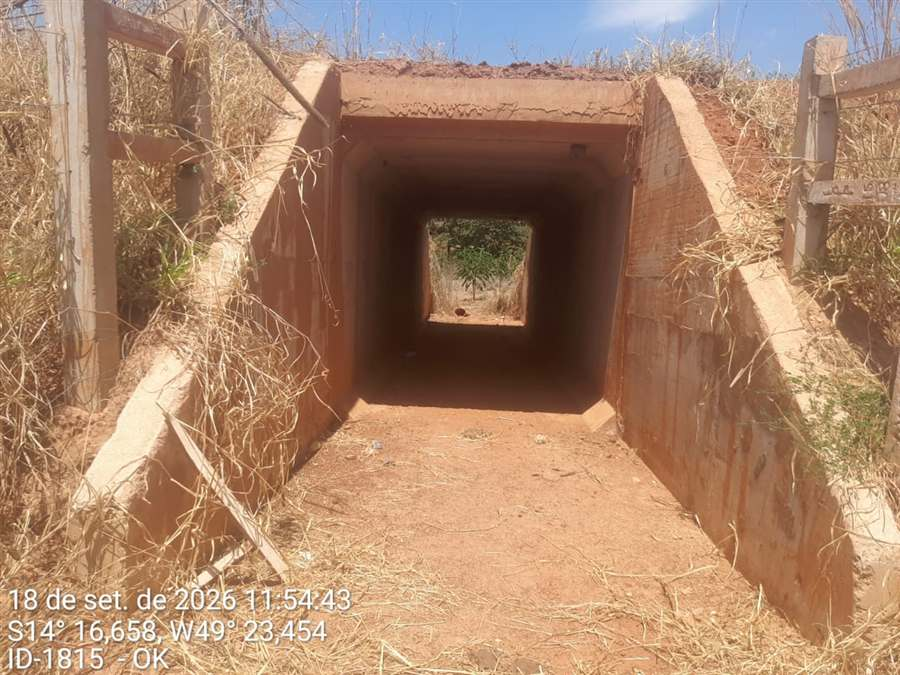
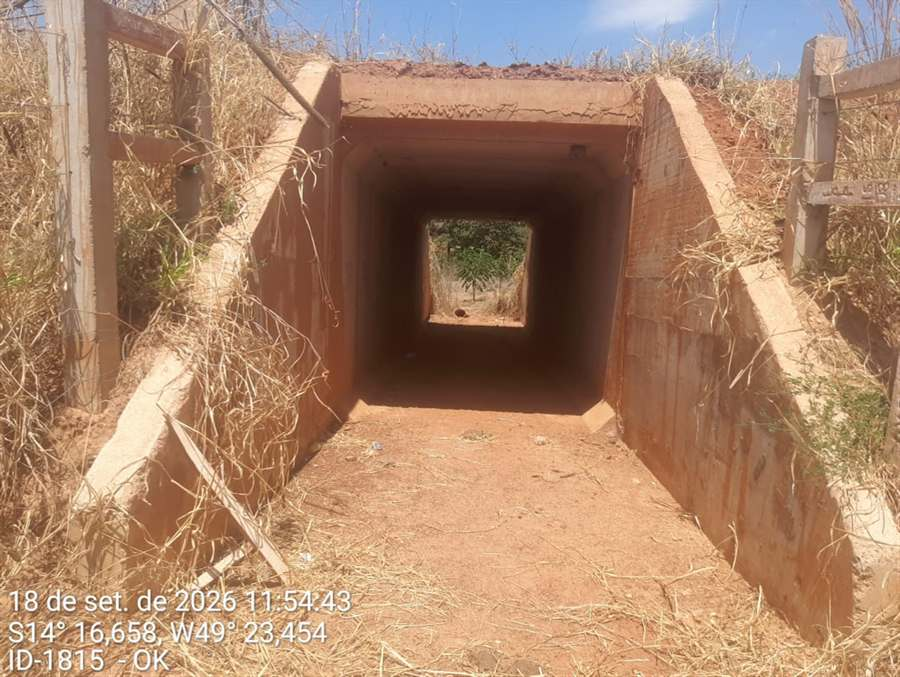
Atualiza evidencias fotograficas do CLP-007 (IDs 145, 1818, 1825 e 1828)

diff --git a/index.html b/index.html
@@ -4123,7 +4123,7 @@ Object.assign(CLP_LOGO_EMPRESA, CLP_BATCH2_LOGOS);
 ];
 const CLP_BATCH3_EVIDENCIAS={
 'CLP-024':{"2578":{"antes":"clp024_2578_antes.jpg"},"2579":{"antes":"clp024_2579_antes.jpg"},"2580":{"antes":"clp024_2580_antes.jpg"},"2581":{"antes":"clp024_2581_antes.jpg"},"2582":{"antes":"clp024_2582_antes.jpg"},"2583":{"antes":"clp024_2583_antes.jpg"},"2731":{"antes":"clp024_2731_antes.jpg"},"2732":{"antes":"clp024_2732_antes.jpg"},"2585":{"antes":"clp024_2585_antes.jpg"},"2586":{"antes":"clp024_2586_antes.jpg"},"2587":{"antes":"clp024_2587_antes.jpg"},"2588":{"antes":"clp024_2588_antes.jpg"},"2589":{"antes":"clp024_2589_antes.jpg"},"2590":{"antes":"clp024_2590_antes.jpg"},"2733":{"antes":"clp024_2733_antes.jpg"},"2591":{"antes":"clp024_2591_antes.jpg"},"2592":{"antes":"clp024_2592_antes.jpg"},"2593":{"antes":"clp024_2593_antes.jpg"},"2594":{"antes":"clp024_2594_antes.jpg"},"2595":{"antes":"clp024_2595_antes.jpg"},"2596":{"antes":"clp024_2596_antes.jpg"},"2597":{"antes":"clp024_2597_antes.jpg"},"2598":{"antes":"clp024_2598_antes.jpg"},"2599":{"antes":"clp024_2599_antes.jpg"},"2600":{"antes":"clp024_2600_antes.jpg"},"2601":{"antes":"clp024_2601_antes.jpg"},"2602":{"antes":"clp024_2602_antes.jpg"},"2603":{"antes":"clp024_2603_antes.jpg"},"2604":{"antes":"clp024_2604_antes.jpg"},"2605":{"antes":"clp024_2605_antes.jpg"},"2606":{"antes":"clp024_2606_antes.jpg"},"2607":{"antes":"clp024_2607_antes.jpg"},"2608":{"antes":"clp024_2608_antes.jpg"},"2609":{"antes":"clp024_2609_antes.jpg"},"2610":{"antes":"clp024_2610_antes.jpg"},"2611":{"antes":"clp024_2611_antes.jpg"},"2612":{"antes":"clp024_2612_antes.jpg"},"2613":{"antes":"clp024_2613_antes.jpg"},"2614":{"antes":"clp024_2614_antes.jpg","depois1":"clp024_2614_depois1.jpg"},"2615":{"antes":"clp024_2615_antes.jpg"},"2616":{"antes":"clp024_2616_antes.jpg"},"2617":{"antes":"clp024_2617_antes.jpg"},"2618":{"antes":"clp024_2618_antes.jpg","depois1":"clp024_2618_depois1.jpg","depois2":"clp024_2618_depois2.jpg"},"2619":{"antes":"clp024_2619_antes.jpg"},"2620":{"antes":"clp024_2620_antes.jpg","depois1":"clp024_2620_depois1.jpg"},"2621":{"antes":"clp024_2621_antes.jpg"},"2622":{"antes":"clp024_2622_antes.jpg","depois1":"clp024_2622_depois1.jpg"},"2623":{"antes":"clp024_2623_antes.jpg"},"2624":{"antes":"clp024_2624_antes.jpg","depois1":"clp024_2624_depois1.jpg","depois2":"clp024_2624_depois2.jpg"},"2625":{"antes":"clp024_2625_antes.jpg","depois1":"clp024_2625_depois1.jpg","depois2":"clp024_2625_depois2.jpg"},"2626":{"antes":"clp024_2626_antes.jpg"},"2627":{"antes":"clp024_2627_antes.jpg"},"2628":{"antes":"clp024_2628_antes.jpg"},"2629":{"antes":"clp024_2629_antes.jpg"},"2630":{"antes":"clp024_2630_antes.jpg"},"2639":{"antes":"clp024_2639_antes.jpg"},"2640":{"antes":"clp024_2640_antes.jpg"},"2641":{"antes":"clp024_2641_antes.jpg"},"2642":{"antes":"clp024_2642_antes.jpg"},"2643":{"antes":"clp024_2643_antes.jpg"},"2734":{"antes":"clp024_2734_antes.jpg"},"2735":{"antes":"clp024_2735_antes.jpg"},"2736":{"antes":"clp024_2736_antes.jpg"},"2737":{"antes":"clp024_2737_antes.jpg"},"2738":{"antes":"clp024_2738_antes.jpg"},"2739":{"antes":"clp024_2739_antes.jpg"},"2740":{"antes":"clp024_2740_antes.jpg"},"2741":{"antes":"clp024_2741_antes.jpg"},"2742":{"antes":"clp024_2742_antes.jpg"},"2743":{"antes":"clp024_2743_antes.jpg"},"2744":{"antes":"clp024_2744_antes.jpg"},"2745":{"antes":"clp024_2745_antes.jpg"},"2746":{"antes":"clp024_2746_antes.jpg"},"2747":{"antes":"clp024_2747_antes.jpg"},"2748":{"antes":"clp024_2748_antes.jpg"},"2749":{"antes":"clp024_2749_antes.jpg"},"2750":{"antes":"clp024_2750_antes.jpg"},"2751":{"antes":"clp024_2751_antes.jpg"},"2752":{"antes":"clp024_2752_antes.jpg"},"2648":{"antes":"clp024_2648_antes.jpg"},"2649":{"antes":"clp024_2649_antes.jpg"},"2650":{"antes":"clp024_2650_antes.jpg"},"2651":{"antes":"clp024_2651_antes.jpg"},"2652":{"antes":"clp024_2652_antes.jpg"},"2653":{"antes":"clp024_2653_antes.jpg"},"2654":{"antes":"clp024_2654_antes.jpg"},"2655":{"antes":"clp024_2655_antes.jpg"},"2656":{"antes":"clp024_2656_antes.jpg"},"2657":{"antes":"clp024_2657_antes.jpg"},"2658":{"antes":"clp024_2658_antes.jpg"},"2659":{"antes":"clp024_2659_antes.jpg"},"2660":{"antes":"clp024_2660_antes.jpg"},"2661":{"antes":"clp024_2661_antes.jpg"},"2662":{"antes":"clp024_2662_antes.jpg"},"2663":{"antes":"clp024_2663_antes.jpg"},"2664":{"antes":"clp024_2664_antes.jpg"},"2665":{"antes":"clp024_2665_antes.jpg"},"2666":{"antes":"clp024_2666_antes.jpg"},"2667":{"antes":"clp024_2667_antes.jpg"},"2668":{"antes":"clp024_2668_antes.jpg"},"2669":{"antes":"clp024_2669_antes.jpg"},"2670":{"antes":"clp024_2670_antes.jpg"},"2671":{"antes":"clp024_2671_antes.jpg","depois1":"clp024_2671_depois1.jpg"},"2672":{"antes":"clp024_2672_antes.jpg","depois1":"clp024_2672_depois1.jpg"},"2673":{"antes":"clp024_2673_antes.jpg","depois1":"clp024_2673_depois1.jpg"},"2674":{"antes":"clp024_2674_antes.jpg"},"2675":{"antes":"clp024_2675_antes.jpg"},"2676":{"antes":"clp024_2676_antes.jpg"},"2677":{"antes":"clp024_2677_antes.jpg"},"2678":{"antes":"clp024_2678_antes.jpg"},"2679":{"antes":"clp024_2679_antes.jpg"},"2680":{"antes":"clp024_2680_antes.jpg"},"2681":{"antes":"clp024_2681_antes.jpg"},"2682":{"antes":"clp024_2682_antes.jpg"},"2683":{"antes":"clp024_2683_antes.jpg"},"2684":{"antes":"clp024_2684_antes.jpg"},"2685":{"antes":"clp024_2685_antes.jpg"},"2686":{"antes":"clp024_2686_antes.jpg"},"2687":{"antes":"clp024_2687_antes.jpg"},"2688":{"antes":"clp024_2688_antes.jpg"},"2689":{"antes":"clp024_2689_antes.jpg"},"2690":{"antes":"clp024_2690_antes.jpg"},"2691":{"antes":"clp024_2691_antes.jpg"},"2692":{"antes":"clp024_2692_antes.jpg"},"2693":{"antes":"clp024_2693_antes.jpg"},"2694":{"antes":"clp024_2694_antes.jpg"},"2695":{"antes":"clp024_2695_antes.jpg"},"2696":{"antes":"clp024_2696_antes.jpg"},"2697":{"antes":"clp024_2697_antes.jpg"},"2698":{"antes":"clp024_2698_antes.jpg"},"2699":{"antes":"clp024_2699_antes.jpg"},"2700":{"antes":"clp024_2700_antes.jpg"},"2701":{"antes":"clp024_2701_antes.jpg"},"2702":{"antes":"clp024_2702_antes.jpg"},"2703":{"antes":"clp024_2703_antes.jpg"},"2704":{"antes":"clp024_2704_antes.jpg"},"2705":{"antes":"clp024_2705_antes.jpg"},"2706":{"antes":"clp024_2706_antes.jpg"},"2707":{"antes":"clp024_2707_antes.jpg"},"2708":{"antes":"clp024_2708_antes.jpg"},"2709":{"antes":"clp024_2709_antes.jpg"},"2710":{"antes":"clp024_2710_antes.jpg"},"2711":{"antes":"clp024_2711_antes.jpg"},"2712":{"antes":"clp024_2712_antes.jpg"},"2713":{"antes":"clp024_2713_antes.jpg"},"2714":{"antes":"clp024_2714_antes.jpg"},"2715":{"antes":"clp024_2715_antes.jpg"},"2716":{"antes":"clp024_2716_antes.jpg"},"2717":{"antes":"clp024_2717_antes.jpg"},"2718":{"antes":"clp024_2718_antes.jpg"},"2719":{"antes":"clp024_2719_antes.jpg"},"2720":{"antes":"clp024_2720_antes.jpg"},"2721":{"antes":"clp024_2721_antes.jpg"},"2722":{"antes":"clp024_2722_antes.jpg"},"2723":{"antes":"clp024_2723_antes.jpg"},"2724":{"antes":"clp024_2724_antes.jpg"},"2725":{"antes":"clp024_2725_antes.jpg"},"2726":{"antes":"clp024_2726_antes.jpg"},"2727":{"antes":"clp024_2727_antes.jpg"},"2728":{"antes":"clp024_2728_antes.jpg","depois1":"clp024_2728_depois1.jpg"},"2729":{"antes":"clp024_2729_antes.jpg"}},'CLP-016':{"1022":{"antes":"clp016_1022_antes.jpg"},"1023":{"antes":"clp016_1023_antes.jpg"},"1024":{"antes":"clp016_1024_antes.jpg","depois1":"clp016_1024_depois1.jpg"},"1026":{"antes":"clp016_1026_antes.jpg"},"1027":{"antes":"clp016_1027_antes.jpg","depois1":"clp016_1027_depois1.jpg"},"1028":{"antes":"clp016_1028_antes.jpg"},"1029":{"antes":"clp016_1029_antes.jpg"},"1030":{"antes":"clp016_1030_antes.jpg"},"1031":{"antes":"clp016_1031_antes.jpg"},"1033":{"antes":"clp016_1033_antes.jpg"},"1040":{"antes":"clp016_1040_antes.jpg","depois1":"clp016_1040_depois1.jpg"},"1041":{"antes":"clp016_1041_antes.jpg"},"1042":{"antes":"clp016_1042_antes.jpg"},"1043":{"antes":"clp016_1043_antes.jpg"},"1929":{"antes":"clp016_1929_antes.jpg","depois1":"clp016_1929_depois1.jpg"},"1930":{"antes":"clp016_1930_antes.jpg"},"1044":{"antes":"clp016_1044_antes.jpg"},"1045":{"antes":"clp016_1045_antes.jpg"},"1046":{"antes":"clp016_1046_antes.jpg","depois1":"clp016_1046_depois1.jpg"},"1047":{"antes":"clp016_1047_antes.jpg"},"1048":{"antes":"clp016_1048_antes.jpg","depois1":"clp016_1048_depois1.jpg"},"1050":{"antes":"clp016_1050_antes.jpg","depois1":"clp016_1050_depois1.jpg"},"1051":{"antes":"clp016_1051_antes.jpg","depois1":"clp016_1051_depois1.jpg"},"1052":{"antes":"clp016_1052_antes.jpg"},"1053":{"antes":"clp016_1053_antes.jpg"},"1054":{"antes":"clp016_1054_antes.jpg","depois1":"clp016_1054_depois1.jpg"},"1055":{"antes":"clp016_1055_antes.jpg","depois1":"clp016_1055_depois1.jpg"},"1056":{"antes":"clp016_1056_antes.jpg","depois1":"clp016_1056_depois1.jpg"},"1057":{"antes":"clp016_1057_antes.jpg"},"1058":{"antes":"clp016_1058_antes.jpg"},"1059":{"antes":"clp016_1059_antes.jpg"},"1060":{"antes":"clp016_1060_antes.jpg"},"1061":{"antes":"clp016_1061_antes.jpg"},"1062":{"antes":"clp016_1062_antes.jpg"},"1063":{"antes":"clp016_1063_antes.jpg"},"1064":{"antes":"clp016_1064_antes.jpg"},"1065":{"antes":"clp016_1065_antes.jpg"},"1066":{"antes":"clp016_1066_antes.jpg"},"1067":{"antes":"clp016_1067_antes.jpg"},"1068":{"antes":"clp016_1068_antes.jpg","depois1":"clp016_1068_depois1.jpg"},"1069":{"antes":"clp016_1069_antes.jpg","depois1":"clp016_1069_depois1.jpg"},"1070":{"antes":"clp016_1070_antes.jpg"},"1071":{"antes":"clp016_1071_antes.jpg"},"1072":{"antes":"clp016_1072_antes.jpg"},"1073":{"antes":"clp016_1073_antes.jpg","depois1":"clp016_1073_depois1.jpg"},"1074":{"antes":"clp016_1074_antes.jpg"},"1075":{"antes":"clp016_1075_antes.jpg"},"1076":{"antes":"clp016_1076_antes.jpg"},"1077":{"antes":"clp016_1077_antes.jpg"},"1080":{"depois1":"clp016_1080_depois1.jpg"},"1086":{"antes":"clp016_1086_antes.jpg","depois1":"clp016_1086_depois1.jpg"},"1087":{"antes":"clp016_1087_antes.jpg"},"1088":{"antes":"clp016_1088_antes.jpg","depois1":"clp016_1088_depois1.jpg","depois2":"clp016_1088_depois2.jpg"},"1089":{"antes":"clp016_1089_antes.jpg","depois1":"clp016_1089_depois1.jpg"},"1090":{"antes":"clp016_1090_antes.jpg","depois1":"clp016_1090_depois1.jpg"},"1091":{"antes":"clp016_1091_antes.jpg","depois1":"clp016_1091_depois1.jpg","depois2":"clp016_1091_depois2.jpg"},"1092":{"antes":"clp016_1092_antes.jpg"},"1093":{"antes":"clp016_1093_antes.jpg","depois1":"clp016_1093_depois1.jpg"},"1094":{"antes":"clp016_1094_antes.jpg"},"1095":{"antes":"clp016_1095_antes.jpg"},"1096":{"antes":"clp016_1096_antes.jpg","depois1":"clp016_1096_depois1.jpg"},"1097":{"antes":"clp016_1097_antes.jpg"},"1098":{"antes":"clp016_1098_antes.jpg","depois1":"clp016_1098_depois1.jpg"},"1099":{"antes":"clp016_1099_antes.jpg","depois1":"clp016_1099_depois1.jpg","depois2":"clp016_1099_depois2.jpg"},"1100":{"antes":"clp016_1100_antes.jpg","depois1":"clp016_1100_depois1.jpg"},"1101":{"antes":"clp016_1101_antes.jpg","depois1":"clp016_1101_depois1.jpg"},"1102":{"antes":"clp016_1102_antes.jpg"},"1103":{"antes":"clp016_1103_antes.jpg"},"1104":{"antes":"clp016_1104_antes.jpg"},"1105":{"antes":"clp016_1105_antes.jpg","depois1":"clp016_1105_depois1.jpg"},"1106":{"antes":"clp016_1106_antes.jpg","depois1":"clp016_1106_depois1.jpg"},"1109":{"antes":"clp016_1109_antes.jpg","depois1":"clp016_1109_depois1.jpg"},"1110":{"antes":"clp016_1110_antes.jpg"},"1111":{"antes":"clp016_1111_antes.jpg","depois1":"clp016_1111_depois1.jpg"},"1112":{"antes":"clp016_1112_antes.jpg","depois1":"clp016_1112_depois1.jpg"},"1113":{"antes":"clp016_1113_antes.jpg","depois1":"clp016_1113_depois1.jpg"},"1114":{"antes":"clp016_1114_antes.jpg","depois1":"clp016_1114_depois1.jpg"},"1115":{"antes":"clp016_1115_antes.jpg","depois1":"clp016_1115_depois1.jpg"},"1116":{"antes":"clp016_1116_antes.jpg","depois1":"clp016_1116_depois1.jpg"},"1117":{"antes":"clp016_1117_antes.jpg","depois1":"clp016_1117_depois1.jpg"},"1118":{"antes":"clp016_1118_antes.jpg","depois1":"clp016_1118_depois1.jpg"},"1119":{"antes":"clp016_1119_antes.jpg"},"1120":{"antes":"clp016_1120_antes.jpg","depois1":"clp016_1120_depois1.jpg"},"1121":{"antes":"clp016_1121_antes.jpg","depois1":"clp016_1121_depois1.jpg"},"1122":{"antes":"clp016_1122_antes.jpg","depois1":"clp016_1122_depois1.jpg"},"1123":{"antes":"clp016_1123_antes.jpg","depois1":"clp016_1123_depois1.jpg","depois2":"clp016_1123_depois2.jpg"},"1124":{"antes":"clp016_1124_antes.jpg","depois1":"clp016_1124_depois1.jpg"},"1125":{"antes":"clp016_1125_antes.jpg","depois1":"clp016_1125_depois1.jpg"},"1126":{"antes":"clp016_1126_antes.jpg"},"1127":{"antes":"clp016_1127_antes.jpg","depois1":"clp016_1127_depois1.jpg","depois2":"clp016_1127_depois2.jpg"},"1128":{"antes":"clp016_1128_antes.jpg","depois1":"clp016_1128_depois1.jpg"},"1129":{"antes":"clp016_1129_antes.jpg","depois1":"clp016_1129_depois1.jpg"},"1130":{"antes":"clp016_1130_antes.jpg","depois1":"clp016_1130_depois1.jpg"},"1131":{"antes":"clp016_1131_antes.jpg","depois1":"clp016_1131_depois1.jpg"},"1132":{"antes":"clp016_1132_antes.jpg","depois1":"clp016_1132_depois1.jpg"},"1133":{"antes":"clp016_1133_antes.jpg","depois1":"clp016_1133_depois1.jpg"},"1134":{"antes":"clp016_1134_antes.jpg","depois1":"clp016_1134_depois1.jpg"},"1135":{"antes":"clp016_1135_antes.jpg"},"1136":{"antes":"clp016_1136_antes.jpg","depois1":"clp016_1136_depois1.jpg"},"1137":{"antes":"clp016_1137_antes.jpg","depois1":"clp016_1137_depois1.jpg","depois2":"clp016_1137_depois2.jpg"},"1138":{"antes":"clp016_1138_antes.jpg","depois1":"clp016_1138_depois1.jpg"},"1139":{"antes":"clp016_1139_antes.jpg","depois1":"clp016_1139_depois1.jpg"},"1140":{"antes":"clp016_1140_antes.jpg","depois1":"clp016_1140_depois1.jpg"},"1141":{"antes":"clp016_1141_antes.jpg","depois1":"clp016_1141_depois1.jpg"},"1142":{"antes":"clp016_1142_antes.jpg","depois1":"clp016_1142_depois1.jpg"},"1143":{"antes":"clp016_1143_antes.jpg","depois1":"clp016_1143_depois1.jpg"},"1144":{"depois1":"clp016_1144_depois1.jpg"},"1145":{"depois1":"clp016_1145_depois1.jpg"},"1146":{"antes":"clp016_1146_antes.jpg","depois1":"clp016_1146_depois1.jpg"},"1147":{"antes":"clp016_1147_antes.jpg","depois1":"clp016_1147_depois1.jpg"},"1148":{"antes":"clp016_1148_antes.jpg","depois1":"clp016_1148_depois1.jpg","depois2":"clp016_1148_depois2.jpg"},"1149":{"antes":"clp016_1149_antes.jpg","depois1":"clp016_1149_depois1.jpg"},"1150":{"antes":"clp016_1150_antes.jpg","depois1":"clp016_1150_depois1.jpg"},"1151":{"antes":"clp016_1151_antes.jpg","depois1":"clp016_1151_depois1.jpg"},"1152":{"antes":"clp016_1152_antes.jpg","depois1":"clp016_1152_depois1.jpg"},"1153":{"antes":"clp016_1153_antes.jpg","depois1":"clp016_1153_depois1.jpg"},"1154":{"antes":"clp016_1154_antes.jpg","depois1":"clp016_1154_depois1.jpg","depois2":"clp016_1154_depois2.jpg"},"1155":{"antes":"clp016_1155_antes.jpg","depois1":"clp016_1155_depois1.jpg"},"1156":{"antes":"clp016_1156_antes.jpg","depois1":"clp016_1156_depois1.jpg"},"1157":{"antes":"clp016_1157_antes.jpg","depois1":"clp016_1157_depois1.jpg"},"1158":{"antes":"clp016_1158_antes.jpg","depois1":"clp016_1158_depois1.jpg"},"1159":{"antes":"clp016_1159_antes.jpg","depois1":"clp016_1159_depois1.jpg","depois2":"clp016_1159_depois2.jpg"},"1160":{"antes":"clp016_1160_antes.jpg","depois1":"clp016_1160_depois1.jpg"},"1161":{"antes":"clp016_1161_antes.jpg","depois1":"clp016_1161_depois1.jpg"},"1162":{"antes":"clp016_1162_antes.jpg","depois1":"clp016_1162_depois1.jpg"},"1163":{"antes":"clp016_1163_antes.jpg","depois1":"clp016_1163_depois1.jpg"},"3220":{"antes":"clp016_3220_antes.jpg"},"1164":{"antes":"clp016_1164_antes.jpg","depois1":"clp016_1164_depois1.jpg"},"1165":{"antes":"clp016_1165_antes.jpg","depois1":"clp016_1165_depois1.jpg"},"1166":{"antes":"clp016_1166_antes.jpg","depois1":"clp016_1166_depois1.jpg"},"1167":{"antes":"clp016_1167_antes.jpg","depois1":"clp016_1167_depois1.jpg"},"1168":{"antes":"clp016_1168_antes.jpg","depois1":"clp016_1168_depois1.jpg"},"1169":{"antes":"clp016_1169_antes.jpg","depois1":"clp016_1169_depois1.jpg"},"1170":{"antes":"clp016_1170_antes.jpg","depois1":"clp016_1170_depois1.jpg"},"1171":{"antes":"clp016_1171_antes.jpg","depois1":"clp016_1171_depois1.jpg"},"1172":{"antes":"clp016_1172_antes.jpg","depois1":"clp016_1172_depois1.jpg"},"1936":{"depois1":"clp016_1936_depois1.jpg"}},
-'CLP-007':{"140":{"antes":"clp007_140_antes.jpg","depois1":"clp007_140_depois1.jpg"},"148":{"antes":"clp007_148_antes.jpg","depois1":"clp007_148_depois1.jpg"},"1818":{"depois1":"clp007_1818_depois1.jpg","depois2":"clp007_1818_depois2.jpg","depois3":"clp007_1818_depois3.jpg"},"150":{"antes":"clp007_150_antes.jpg","depois1":"clp007_150_depois1.jpg"},"1810":{"antes":"clp007_1810_antes.jpg"},"176":{"antes":"clp007_176_antes.jpg","depois1":"clp007_176_depois1.jpg"},"142":{"antes":"clp007_142_antes.jpg","depois1":"clp007_142_depois1.jpg"},"143":{"antes":"clp007_143_antes.jpg"},"144":{"antes":"clp007_144_antes.jpg"},"145":{"antes":"clp007_145_antes.jpg","depois1":"clp007_145_depois1.jpg","depois2":"clp007_145_depois2.jpg"},"1816":{"antes":"clp007_1816_antes.jpg","depois1":"clp007_1816_depois1.jpg","depois2":"clp007_1816_depois2.jpg"},"1819":{"antes":"clp007_1819_antes.jpg"},"1820":{"antes":"clp007_1820_antes.jpg"},"146":{"antes":"clp007_146_antes.jpg","depois1":"clp007_146_depois1.jpg"},"180":{"antes":"clp007_180_antes.jpg","depois1":"clp007_180_depois1.jpg"},"1821":{"antes":"clp007_1821_antes.jpg","depois1":"clp007_1821_depois1.jpg","depois2":"clp007_1821_depois2.jpg"},"185":{"antes":"clp007_185_antes.jpg","depois1":"clp007_185_depois1.jpg"},"151":{"antes":"clp007_151_antes.jpg","depois1":"clp007_151_depois1.jpg","depois2":"clp007_151_depois2.jpg"},"152":{"antes":"clp007_152_antes.jpg","depois1":"clp007_152_depois1.jpg"},"187":{"antes":"clp007_187_antes.jpg","depois1":"clp007_187_depois1.jpg"},"1823":{"antes":"clp007_1823_antes.jpg","depois1":"clp007_1823_depois1.jpg"},"1824":{"antes":"clp007_1824_antes.jpg","depois1":"clp007_1824_depois1.jpg"},"1825":{"antes":"clp007_1825_antes.jpg","depois1":"clp007_1825_depois1.jpg"},"153":{"depois1":"clp007_153_depois1.jpg"},"154":{"depois1":"clp007_154_depois1.jpg"},"156":{"antes":"clp007_156_antes.jpg"},"157":{"antes":"clp007_157_antes.jpg","depois2":"clp007_157_depois2.jpg","depois3":"clp007_157_depois3.jpg"},"1826":{"antes":"clp007_1826_antes.jpg","depois1":"clp007_1826_depois1.jpg"},"159":{"antes":"clp007_159_antes.jpg","depois1":"clp007_159_depois1.jpg"},"162":{"antes":"clp007_162_antes.jpg","depois1":"clp007_162_depois1.jpg","depois2":"clp007_162_depois2.jpg","depois3":"clp007_162_depois3.jpg"},"163":{"antes":"clp007_163_antes.jpg","depois1":"clp007_163_depois1.jpg","depois2":"clp007_163_depois2.jpg","depois3":"clp007_163_depois3.jpg","depois4":"clp007_163_depois4.jpg"},"164":{"antes":"clp007_164_antes.jpg","depois1":"clp007_164_depois1.jpg"},"1812":{"antes":"clp007_1812_antes.jpg"},"1813":{"antes":"clp007_1813_antes.jpg"},"1814":{"antes":"clp007_1814_antes.jpg","depois1":"clp007_1814_depois1.jpg","depois2":"clp007_1814_depois2.jpg","depois3":"clp007_1814_depois3.jpg","depois4":"clp007_1814_depois4.jpg"},"1827":{"antes":"clp007_1827_antes.jpg"},"165":{"antes":"clp007_165_antes.jpg","depois1":"clp007_165_depois1.jpg"},"166":{"antes":"clp007_166_antes.jpg","depois1":"clp007_166_depois1.jpg"},"167":{"antes":"clp007_167_antes.jpg","depois1":"clp007_167_depois1.jpg","depois2":"clp007_167_depois2.jpg"},"168":{"antes":"clp007_168_antes.jpg","depois1":"clp007_168_depois1.jpg","depois2":"clp007_168_depois2.jpg","depois3":"clp007_168_depois3.jpg","depois4":"clp007_168_depois4.jpg"},"1815":{"antes":"clp007_1815_antes.jpg","depois1":"clp007_1815_depois1.jpg","depois2":"clp007_1815_depois2.jpg"},"169":{"antes":"clp007_169_antes.jpg","depois1":"clp007_169_depois1.jpg"},"170":{"antes":"clp007_170_antes.jpg","depois1":"clp007_170_depois1.jpg"},"1828":{"antes":"clp007_1828_antes.jpg","depois1":"clp007_1828_depois1.jpg","depois2":"clp007_1828_depois2.jpg"},"1829":{"antes":"clp007_1829_antes.jpg","depois1":"clp007_1829_depois1.jpg"},"1830":{"antes":"clp007_1830_antes.jpg"},"1831":{"antes":"clp007_1831_antes.jpg","depois1":"clp007_1831_depois1.jpg"},"173":{"antes":"clp007_173_antes.jpg","depois1":"clp007_173_depois1.jpg"},"174":{"antes":"clp007_174_antes.jpg"},"175":{"antes":"clp007_175_antes.jpg","depois1":"clp007_175_depois1.jpg"},"188":{"antes":"clp007_188_antes.jpg","depois1":"clp007_188_depois1.jpg","depois2":"clp007_188_depois2.jpg"},"177":{"antes":"clp007_177_antes.jpg"},"178":{"antes":"clp007_178_antes.jpg"},"179":{"antes":"clp007_179_antes.jpg","depois1":"clp007_179_depois1.jpg"},"193":{"antes":"clp007_193_antes.jpg","depois1":"clp007_193_depois1.jpg"},"181":{"antes":"clp007_181_antes.jpg","depois1":"clp007_181_depois1.jpg"},"182":{"antes":"clp007_182_antes.jpg","depois1":"clp007_182_depois1.jpg"},"183":{"antes":"clp007_183_antes.jpg"},"184":{"antes":"clp007_184_antes.jpg","depois1":"clp007_184_depois1.jpg"},"1809":{"antes":"clp007_1809_antes.jpg","depois1":"clp007_1809_depois1.jpg"},"186":{"antes":"clp007_186_antes.jpg","depois1":"clp007_186_depois1.jpg"},"1811":{"antes":"clp007_1811_antes.jpg","depois1":"clp007_1811_depois1.jpg"},"1817":{"antes":"clp007_1817_antes.jpg","depois1":"clp007_1817_depois1.jpg"},"189":{"antes":"clp007_189_antes.jpg","depois1":"clp007_189_depois1.jpg"},"190":{"antes":"clp007_190_antes.jpg","depois1":"clp007_190_depois1.jpg","depois2":"clp007_190_depois2.jpg"},"191":{"antes":"clp007_191_antes.jpg","depois1":"clp007_191_depois1.jpg","depois2":"clp007_191_depois2.jpg"},"192":{"antes":"clp007_192_antes.jpg","depois1":"clp007_192_depois1.jpg","depois2":"clp007_192_depois2.jpg","depois3":"clp007_192_depois3.jpg","depois4":"clp007_192_depois4.jpg"},"1822":{"antes":"clp007_1822_antes.jpg","depois1":"clp007_1822_depois1.jpg"},"194":{"antes":"clp007_194_antes.jpg","depois1":"clp007_194_depois1.jpg"},"195":{"antes":"clp007_195_antes.jpg","depois1":"clp007_195_depois1.jpg"},"197":{"antes":"clp007_197_antes.jpg"},"1832":{"antes":"clp007_1832_antes.jpg","depois1":"clp007_1832_depois1.jpg","depois2":"clp007_1832_depois2.jpg","depois3":"clp007_1832_depois3.jpg","depois4":"clp007_1832_depois4.jpg"},"1833":{"antes":"clp007_1833_antes.jpg","depois1":"clp007_1833_depois1.jpg","depois2":"clp007_1833_depois2.jpg","depois3":"clp007_1833_depois3.jpg","depois4":"clp007_1833_depois4.jpg"},"1834":{"antes":"clp007_1834_antes.jpg"},"1835":{"antes":"clp007_1835_antes.jpg","depois1":"clp007_1835_depois1.jpg","depois2":"clp007_1835_depois2.jpg","depois3":"clp007_1835_depois3.jpg"}}
+'CLP-007':{"140":{"antes":"clp007_140_antes.jpg","depois1":"clp007_140_depois1.jpg"},"148":{"antes":"clp007_148_antes.jpg","depois1":"clp007_148_depois1.jpg"},"1818":{"depois1":"clp007_1818_depois1.jpg","depois2":"clp007_1818_depois2.jpg"},"150":{"antes":"clp007_150_antes.jpg","depois1":"clp007_150_depois1.jpg"},"1810":{"antes":"clp007_1810_antes.jpg"},"176":{"antes":"clp007_176_antes.jpg","depois1":"clp007_176_depois1.jpg"},"142":{"antes":"clp007_142_antes.jpg","depois1":"clp007_142_depois1.jpg"},"143":{"antes":"clp007_143_antes.jpg"},"144":{"antes":"clp007_144_antes.jpg"},"145":{"antes":"clp007_145_antes.jpg","depois1":"clp007_145_depois1.jpg","depois2":"clp007_145_depois2.jpg"},"1816":{"antes":"clp007_1816_antes.jpg","depois1":"clp007_1816_depois1.jpg","depois2":"clp007_1816_depois2.jpg"},"1819":{"antes":"clp007_1819_antes.jpg"},"1820":{"antes":"clp007_1820_antes.jpg"},"146":{"antes":"clp007_146_antes.jpg","depois1":"clp007_146_depois1.jpg"},"180":{"antes":"clp007_180_antes.jpg","depois1":"clp007_180_depois1.jpg"},"1821":{"antes":"clp007_1821_antes.jpg","depois1":"clp007_1821_depois1.jpg","depois2":"clp007_1821_depois2.jpg"},"185":{"antes":"clp007_185_antes.jpg","depois1":"clp007_185_depois1.jpg"},"151":{"antes":"clp007_151_antes.jpg","depois1":"clp007_151_depois1.jpg","depois2":"clp007_151_depois2.jpg"},"152":{"antes":"clp007_152_antes.jpg","depois1":"clp007_152_depois1.jpg"},"187":{"antes":"clp007_187_antes.jpg","depois1":"clp007_187_depois1.jpg"},"1823":{"antes":"clp007_1823_antes.jpg","depois1":"clp007_1823_depois1.jpg"},"1824":{"antes":"clp007_1824_antes.jpg","depois1":"clp007_1824_depois1.jpg"},"1825":{"antes":"clp007_1825_antes.jpg","depois1":"clp007_1825_depois1.jpg"},"153":{"depois1":"clp007_153_depois1.jpg"},"154":{"depois1":"clp007_154_depois1.jpg"},"156":{"antes":"clp007_156_antes.jpg"},"157":{"antes":"clp007_157_antes.jpg","depois2":"clp007_157_depois2.jpg","depois3":"clp007_157_depois3.jpg"},"1826":{"antes":"clp007_1826_antes.jpg","depois1":"clp007_1826_depois1.jpg"},"159":{"antes":"clp007_159_antes.jpg","depois1":"clp007_159_depois1.jpg"},"162":{"antes":"clp007_162_antes.jpg","depois1":"clp007_162_depois1.jpg","depois2":"clp007_162_depois2.jpg","depois3":"clp007_162_depois3.jpg"},"163":{"antes":"clp007_163_antes.jpg","depois1":"clp007_163_depois1.jpg","depois2":"clp007_163_depois2.jpg","depois3":"clp007_163_depois3.jpg","depois4":"clp007_163_depois4.jpg"},"164":{"antes":"clp007_164_antes.jpg","depois1":"clp007_164_depois1.jpg"},"1812":{"antes":"clp007_1812_antes.jpg"},"1813":{"antes":"clp007_1813_antes.jpg"},"1814":{"antes":"clp007_1814_antes.jpg","depois1":"clp007_1814_depois1.jpg","depois2":"clp007_1814_depois2.jpg","depois3":"clp007_1814_depois3.jpg","depois4":"clp007_1814_depois4.jpg"},"1827":{"antes":"clp007_1827_antes.jpg"},"165":{"antes":"clp007_165_antes.jpg","depois1":"clp007_165_depois1.jpg"},"166":{"antes":"clp007_166_antes.jpg","depois1":"clp007_166_depois1.jpg"},"167":{"antes":"clp007_167_antes.jpg","depois1":"clp007_167_depois1.jpg","depois2":"clp007_167_depois2.jpg"},"168":{"antes":"clp007_168_antes.jpg","depois1":"clp007_168_depois1.jpg","depois2":"clp007_168_depois2.jpg","depois3":"clp007_168_depois3.jpg","depois4":"clp007_168_depois4.jpg"},"1815":{"antes":"clp007_1815_antes.jpg","depois1":"clp007_1815_depois1.jpg","depois2":"clp007_1815_depois2.jpg"},"169":{"antes":"clp007_169_antes.jpg","depois1":"clp007_169_depois1.jpg"},"170":{"antes":"clp007_170_antes.jpg","depois1":"clp007_170_depois1.jpg"},"1828":{"antes":"clp007_1828_antes.jpg","depois1":"clp007_1828_depois1.jpg","depois2":"clp007_1828_depois2.jpg"},"1829":{"antes":"clp007_1829_antes.jpg","depois1":"clp007_1829_depois1.jpg"},"1830":{"antes":"clp007_1830_antes.jpg"},"1831":{"antes":"clp007_1831_antes.jpg","depois1":"clp007_1831_depois1.jpg"},"173":{"antes":"clp007_173_antes.jpg","depois1":"clp007_173_depois1.jpg"},"174":{"antes":"clp007_174_antes.jpg"},"175":{"antes":"clp007_175_antes.jpg","depois1":"clp007_175_depois1.jpg"},"188":{"antes":"clp007_188_antes.jpg","depois1":"clp007_188_depois1.jpg","depois2":"clp007_188_depois2.jpg"},"177":{"antes":"clp007_177_antes.jpg"},"178":{"antes":"clp007_178_antes.jpg"},"179":{"antes":"clp007_179_antes.jpg","depois1":"clp007_179_depois1.jpg"},"193":{"antes":"clp007_193_antes.jpg","depois1":"clp007_193_depois1.jpg"},"181":{"antes":"clp007_181_antes.jpg","depois1":"clp007_181_depois1.jpg"},"182":{"antes":"clp007_182_antes.jpg","depois1":"clp007_182_depois1.jpg"},"183":{"antes":"clp007_183_antes.jpg"},"184":{"antes":"clp007_184_antes.jpg","depois1":"clp007_184_depois1.jpg"},"1809":{"antes":"clp007_1809_antes.jpg","depois1":"clp007_1809_depois1.jpg"},"186":{"antes":"clp007_186_antes.jpg","depois1":"clp007_186_depois1.jpg"},"1811":{"antes":"clp007_1811_antes.jpg","depois1":"clp007_1811_depois1.jpg"},"1817":{"antes":"clp007_1817_antes.jpg","depois1":"clp007_1817_depois1.jpg"},"189":{"antes":"clp007_189_antes.jpg","depois1":"clp007_189_depois1.jpg"},"190":{"antes":"clp007_190_antes.jpg","depois1":"clp007_190_depois1.jpg","depois2":"clp007_190_depois2.jpg"},"191":{"antes":"clp007_191_antes.jpg","depois1":"clp007_191_depois1.jpg","depois2":"clp007_191_depois2.jpg"},"192":{"antes":"clp007_192_antes.jpg","depois1":"clp007_192_depois1.jpg","depois2":"clp007_192_depois2.jpg","depois3":"clp007_192_depois3.jpg","depois4":"clp007_192_depois4.jpg"},"1822":{"antes":"clp007_1822_antes.jpg","depois1":"clp007_1822_depois1.jpg"},"194":{"antes":"clp007_194_antes.jpg","depois1":"clp007_194_depois1.jpg"},"195":{"antes":"clp007_195_antes.jpg","depois1":"clp007_195_depois1.jpg"},"197":{"antes":"clp007_197_antes.jpg"},"1832":{"antes":"clp007_1832_antes.jpg","depois1":"clp007_1832_depois1.jpg","depois2":"clp007_1832_depois2.jpg","depois3":"clp007_1832_depois3.jpg","depois4":"clp007_1832_depois4.jpg"},"1833":{"antes":"clp007_1833_antes.jpg","depois1":"clp007_1833_depois1.jpg","depois2":"clp007_1833_depois2.jpg","depois3":"clp007_1833_depois3.jpg","depois4":"clp007_1833_depois4.jpg"},"1834":{"antes":"clp007_1834_antes.jpg"},"1835":{"antes":"clp007_1835_antes.jpg","depois1":"clp007_1835_depois1.jpg","depois2":"clp007_1835_depois2.jpg","depois3":"clp007_1835_depois3.jpg"}}
 };
 const CLP_BATCH3_KM={"1143":"km 23+910","1032":"km -","1168":"km 24+650 a 24+651","1091":"km 25+040","1090":"km 23+250","1082":"km 25+500","1099":"km 23+000","1132":"km 26+710 a 26+580","1933":"km 26+190","1033":"km 24+550","1024":"km 23+200 a 23+300","1129":"km 23+380 a 23+685","1069":"km 26+450","1170":"km 24+020","1057":"km 25+540","1113":"km 23+800","1038":"km 26+19","1929":"km 23+000 a 23+640","1026":"km 23+550","1056":"km 23+520","1050":"km 23+270","1165":"km 26+480","1093":"km 23+000 a 23+400","1142":"km 24+530 a 24+900","1039":"km 26+220","1055":"km 25+420","1067":"km 26+200","1066":"km 26+130","1078":"km 23+620 a 26+420","1138":"km 24+020","1080":"km 25+364","1134":"km 23+700","1936":"km 23+620 a 26+420","1087":"km 23+350","1128":"km 23+308 a 23+685","1053":"km 24+960","1140":"km 24+450","1930":"km 25+364","1106":"km 26+650","1163":"km 23+290","1932":"km 26+140","1085":"km 14+736 a 25+536","1157":"km 23+310 a 23+290","1136":"km 23+920","1164":"km 26+465","1081":"km 25+435","1112":"km 23+220","1079":"km 23+620 a 26+420","1046":"km 25+660","1027":"km 23+550","1105":"km 23+300","1071":"km 25+700","1054":"km 25+320","1049":"km 12+000 a 25+536","1048":"km 23+930","1147":"km 23+290 a 23+340","1030":"km 23+305","1098":"km 25+530","1029":"km 101+278\n(Acesso 25+540)","1123":"km 24+260","1084":"km 25+690","1146":"km 23+245 a 23+290","1100":"km 23+200 a 23+220","1052":"km 24+220 a 24+300","1025":"km -","1061":"km 25+840","1075":"km 24+500","1118":"km 25+420","1043":"km 24+000","1149":"km 23+135 a 23+290","1156":"km 23+610 a 23+310","1122":"km 23+520","1125":"km 25+500","1063":"km 25+990","1086":"km 23+240 a 24+380","1111":"km 25+100","1119":"km 23+500","1116":"km 25+160","1172":"km 25+520","1088":"km 23+230","1058":"km 25+650","1104":"km 23+350","1154":"km 23+537 a 23+543","1124":"km 25+350 a 25+351","1120":"km 23+100","1042":"km 23+810","1059":"km 25+700","1103":"km 25+350","1037":"km 26+020","1934":"km 26+420 a 29+740","1127":"km 23+140 a 23+290","1031":"km 26+566","1171":"km 25+930","1167":"km 25+610","1051":"km 24+160 a 24+300","1034":"km 25+770","1935":"km 23+620 a 26+420","1109":"km 23+700","1101":"km 23+350","1161":"km 23+105","1083":"km 25+650","1117":"km 23+210 a 24+420","1166":"km 23+290","1068":"km 26+420","1097":"km 23+000 a 23+400","1158":"km 23+605 a 23+290","1155":"km 23+116 a 23+290","1152":"km 23+495 a 23+290","1045":"km 25+220","1076":"km 25+700 a 26+500","1115":"km 23+200","1135":"km 25+800 a 26+430","1089":"km 23+400","1035":"km 25+800","1126":"km 23+700","1110":"km 24+720 a 25+320","1062":"km 25+980","1169":"km 24+020","1070":"km 26+650","1108":"km -","1040":"km 26+800","1074":"km 25+000","1102":"km 23+700","1064":"km 26+010","1150":"km 23+250 a 23+290","1131":"km 23+308 a 23+350","1159":"km 23+400","1137":"km 23+150","1153":"km 23+537 a 23+543","1041":"km 23+600","1095":"km 23+210 a 23+340","1077":"km 25+700 a 26+100","1130":"km 23+350 a 23+380","1160":"km 23+105","1133":"km 26+580 a 26+570","1096":"km 23+300","1072":"km 23+000","1023":"km 24+300 a 24+400","1139":"km 24+200","1151":"km 23+290 a 23+355","1148":"km 23+290 a 23+505","1107":"km -","1044":"km 24+100","1162":"km 23+290","1092":"km 23+000 a 23+200","1114":"km 24+150","1931":"km 26+070","1094":"km 24+550","1047":"km 26+450","1145":"km -","1060":"km 25+820","1073":"km 23+240","1141":"km 25+310","1065":"km 26+100","1144":"km -","1036":"km 25+960","1028":"km 23+550","1121":"km 23+200","1022":"km 23+220","1334":"km 75+568","1346":"km 78+928","1377":"km 78+550","1337":"km 79+267","1395":"km 73+800 a 80+160","1363":"km 80+220","1392":"km 73+082,838 a 73+312,531","1442":"km 77+100","1414":"km 77+500 a 77+600","1330":"km 74+500","1385":"km 75+348,169 a 75+914,366","1422":"km 74+800 a 75+000","1450":"km 78+300 a 80+160","1421":"km 75+400","1321":"km 71+800 a 74+000","1340":"km 74+035","1322":"km 73+860","1436":"km 78+870 a 78+735","1391":"km 72+688,63 a 73+8284","1942":"km 80+300","1342":"km 101+682\n(Acesso km 74+864)","1430":"km 76+500 a 76+720","1397":"km 76+820 a 77+560","1446":"km 78+760 a 79+400","1373":"km 78+010","1364":"km 77+800 a 80+000","1399":"km 76+280","1352":"km 76+350","1320":"km 73+885 a 74+000","1433":"km 73+800 a 80+180","1382":"km 80+200","1424":"km 74+780 a 74+840","1440":"km 73+800 a 74+320","1425":"km 76+800","1403":"km 77+800 a 80+000","1378":"km 78+600","1375":"km 78+300","1370":"km 77+670","1347":"km 73+800 a 80+160","1376":"km 78+550","1336":"km 101+773\n(Acesso km 74+864)","1344":"km 79+267","1339":"km 71+551","1441":"km 74+340 a 75+080","1420":"km 80+165","1360":"km 74+500 a 74+620","1406":"km 73+750 a 73+800","1354":"km 76+720","1335":"km 101+682\n(Acesso km 74+864)","1437":"km 74+260 a 74+320","1432":"km 79+000","1943":"km 80+390","1434":"km 74+200 a 76+000","1396":"km 76+300 a 76+500","1439":"km 78+750","1368":"km 76+260 a 76+280","1331":"km 76+090","1401":"km 75+950","1365":"km 73+800 a 80+160","1325":"km 80+017,57 a 80+911,01","1428":"km 74+340 a 75+080","1366":"km 75+800 a 76+500","1326":"km 71+528 a 80+481","1380":"km 79+300","1383":"km 74+597,01 (ÁREA 1) 74+908,36 (ÁREA2) a 74+762,596 (ÁREA 1) 75+137,061 (ÁREA 2)","1427":"km 73+900 a 74+000","1449":"km 78+300 a 80+160","1358":"km 76+500 a 76+600","1359":"km 74+350 a 74+420","1418":"km 80+120","1426":"km 74+540 a 77+750","1415":"km 78+900 a 79+000","1416":"km 79+260","1447":"km 79+900 a 79+920","1393":"km 73+312,531 a 73+962,608","1386":"km 75+914,366 a 78+097,701","1407":"km 74+700 a 74+850","1323":"km 72+120 a 72+280","1398":"km 75+120","1408":"km 75+150 a 75+170","1388":"km 71+424,13 a 72+117,508","1343":"km 101+773\n(Acesso km 74+864)","1372":"km 77+850","1351":"km 76+260","1409":"km 75+580 a 75+590","1438":"km 74+920","1445":"km 75+100 a 76+260","1435":"km 78+860 a 78+750","1411":"km 76+750 a 76+800","1448":"km 75+840 a 75+860","1405":"km 76+750","1412":"km 76+850 a 76+950","1394":"km 73+800 a 80+160","1333":"km 74+035","1367":"km 75+420 a 76+000","1327":"km 74+035","1353":"km 76+400","1328":"km 77+672","1381":"km 79+500 ao 79+850","1348":"km 73+920","1357":"km 75+140 a 75+940","1390":"km 72+319,39 a 72+442,320","1345":"km 79+613","1361":"km 79+800","1419":"km 80+120","1362":"km 77+660","1338":"km 79+613","1417":"km 80+100 a 80+140","1423":"km 72+700","1387":"km 80+017,57 a 80+911,01","1404":"km 76+210","1384":"km 74+762,596 a 74+908,356","1356":"km 73+980 a 74+200","1389":"km 72+117,51 a 72+319,39","1355":"km 75+200 a 75+800","1371":"km 77+700","1410":"km 75+800 a 75+900","1341":"km 75+568","1369":"km 80+010","1444":"km 72+700","1350":"km 75+860","1413":"km 76+920 a 77+000","1332":"km 71+551","1329":"km 79+613","1324":"km 71+424,13 a 72+117,508","1431":"km 73+800 a 74+260","1400":"km 75+100","1429":"km 75+100 a 76+260","1402":"km 79+900","1379":"km 78+700","1443":"km 74+280","1349":"km 75+300","1374":"km 78+100 ao 78+300","2654":"km 104+175 a 104+220","2675":"km 100+015\n(ACESSO 100+700) a 100+534\n(ACESSO 100+700)","2667":"km 102+620 a 102+720","2724":"km 101+820","2607":"km 104+320","2683":"km 100+550\n(ACESSO 100+700) a 100+720\n(ACESSO 100+700)","2679":"km 200+011\n(ACESSO 103+300) a 200+045\n(ACESSO 103+300)","2635":"km 103+000","2589":"km 101+700","2735":"km 100+500 a 100+600","2650":"km 101+740 a 102+400","2646":"km 100+540 a 104+880","2618":"km 103+005, Aterro 4","2752":"km 103+400","2597":"km 104+120","2637":"km 103+640 a 103+700","2611":"km 104+500","2616":"km 102+822, Aterro 4","2697":"km 101+680","2726":"km 101+680","2705":"km 100+575\nACESSO 100+700","2644":"km 100+540 a 104+880","2593":"km 103+560","2678":"km 200+259\n(ACESSO 103+300) a 200+440\n(ACESSO 103+300)","2629":"km 102+900","2599":"km 104+160","2647":"km 100+540 a 104+880","2602":"km 104+200","2623":"km 102+030, Corte 2","2734":"km 100+400 a 100+500","2578":"km 104+180","2649":"km 101+740 a 102+400","2742":"km 102+500","2619":"km 100+060 ao 100+740,\nAterro 1","2685":"km 100+515\n(ACESSO 100+700) a 100+690\n(ACESSO 100+700)","2608":"km 104+360","2634":"km 102+540 a 102+760","2699":"km 100+405","2736":"km 100+600","2716":"km 100+357\nACESSO 102+500","2620":"km 100+630, Aterro 1","2673":"km 100+725 a 101+560","2681":"km 100+300 a 100+400","2596":"km 103+920","2728":"km 100+500","2743":"km 102+500","2668":"km 102+740 a 103+020","2722":"km 100+600","2636":"km 103+400 a 103+500","2711":"km 100+719\nACESSO 102+608","2719":"km 100+464\nACESSO 102+500","2738":"km 101+700","2645":"km 100+540 a 104+880","2652":"km 103+560 a 104+140","2592":"km 103+560","2748":"km 102+950","2718":"km 100+463\nACESSO 102+500","2640":"km 100+100","2584":"km 100+540 a 104+880","2643":"km 104+000","2591":"km 103+940","2579":"km 100+660","2658":"km Acesso 104+208\nkm 104+193 a Acesso 104+198\nkm 104+183","2727":"km 100+600","2746":"km 102+750","2750":"km 103+400","2662":"km 104+290","2704":"km 101+225\nACESSO 100+700","2670":"km 103+670 a 103+520","2712":"km 100+792\nACESSO 102+608","2626":"km 102+620 ao 102+700,\nCorte 3","2590":"km 103+000","2737":"km 101+700","2710":"km 100+307\nACESSO 102+608","2615":"km 103+200 a 103+300","2582":"km 100+000 - Acesso\n100+700 - Ferrovia a 100+700","2663":"km 104+300","2603":"km 104+290","2701":"km 102+165","2669":"km 103+040 a 103+340","2612":"km 104+320","2696":"km 101+680","2594":"km 103+620","2628":"km 104+060, Corte 5","2600":"km 104+180","2739":"km 101+700","2580":"km 102+610 a 102+660","2731":"km 101+700","2653":"km 103+540 a 104+140","2642":"km 100+500","2601":"km 104+200","2747":"km 102+800","2627":"km 103+060 ao 103+340,\nCorte 4, Lado direito","2707":"km 101+085\nACESSO 100+700","2684":"km 100+830\n(ACESSO 100+700) a 100+980\n(ACESSO 100+700)","2587":"km 100+680","2703":"km 100+015\nACESSO 100+700","2676":"km 100+720\n(ACESSO 100+700) a 101+255\n(ACESSO 100+700)","2660":"km 104+180","2631":"km 100+200","2672":"km 100+860 a 101+560","2729":"km 103+560 a 104+140","2706":"km 100+720\nACESSO 100+700","2651":"km 103+540 a 104+140","2648":"km 100+740 a 101+580","2745":"km 102+750","2665":"km 100+700 a 100+900","2609":"km 104+500","2709":"km 100+072\nACESSO 102+608","2740":"km 102+500","2633":"km 100+500 a 100+600","2638":"km 103+880 a 104+980","2674":"km 101+735 a 102+405","2723":"km 101+900","2751":"km 103+400","2682":"km 102+875 a 102+940","2688":"km 200+114\n(ACESSO 103+300) a 200+208\n(ACESSO 103+300)","2659":"km 104+120","2639":"km 102+600","2693":"km 101+680","2689":"km 100+920 a 101+455","2695":"km 103+270","2632":"km 100+100 a 100+200","2595":"km 103+920","2717":"km 100+450\nACESSO 102+500","2690":"km 100+920 a 101+455","2610":"km 104+500","2630":"km 102+700","2721":"km 103+560 ao 104+140, Corte 5 a 103+560 ao 104+140,\nCorte 5","2657":"km 104+440 a 104+500","2730":"km 100+540 a 104+880","2677":"km 100+307\n(ACESSO 102+608) a 100+975\n(ACESSO 102+608)","2664":"km 100+300 a 100+660","2586":"km 103+360 ao 103+540,\nAterro 5","2604":"km 104+300","2749":"km 103+000","2708":"km 100+028\nACESSO 102+500","2621":"km 100+960, Corte 1","2691":"km 101+880 a 102+165","2715":"km 100+028\nACESSO 102+500","2732":"km 103+000","2641":"km 102+060","2605":"km 104+300","2744":"km 102+750","2661":"km 104+200","2666":"km 102+420 a 102+560","2588":"km 100+600","2692":"km 101+680","2714":"km 101+085\nACESSO 100+700","2687":"km 100+446\n(ACESSO 102+500)","2725":"km 102+020","2741":"km 102+500","2733":"km 102+950","2617":"km 102+926, Aterro 4","2700":"km 101+680","2585":"km 102+428, Aterro 3","2671":"km 101+585 a 101+680","2606":"km 104+320 a acesso 104+198\nkm 104+183","2698":"km 103+270","2694":"km 104+100","2613":"km 102+700 a 103+000","2713":"km 100+015\nACESSO 100+700","2702":"km 102+715","2680":"km 200+208\n(ACESSO 103+300) a 200+253\n(ACESSO 103+300)","2656":"km 104+320 a 104+500","2583":"km 99+950 a 100+500","2581":"km 101+240 - Acesso\n100+700 - Ferrovia a 100+700","2625":"km 102+170, Corte 2","2614":"km 102+000 a 102+140","2598":"km 104+160","2720":"km 100+319\nACESSO 103+608","2686":"km 100+720\n(ACESSO 100+700) a 100+225\n(ACESSO 100+700)","2655":"km 104+260 a 104+280","2622":"km 101+580 ao 101+720, Aterro 2 a 101+580 ao 101+720,\nAterro 2","2624":"km 102+080, Corte 2","2923":"km 14+770 a 14+900","2940":"km 13+470","2933":"km 14+702","2924":"km 10+760 a 11+080","2935":"km 12+100 a 15+000","2916":"km 12+100 a 15+000","2929":"km 12+098","2934":"km 12+100 a 15+000","2915":"km 14+770","2925":"km 13+480 a 14+190","2913":"km 12+100 a 15+000","2941":"km 13+600 a 14+520","2937":"km 12+610","2914":"km 14+200","2931":"km 13+937","2912":"km 11+950","2918":"km 13+440 a 13+580","2943":"km 13+470","2944":"km 12+550","2921":"km 14+900","2945":"km 14+500","2930":"km 13+780","2926":"km 13+200 a 14+700","2936":"km 12+450","2927":"km 14+640","2920":"km 14+770","2942":"km 12+700","2939":"km 12+100 a 15+000","2917":"km 12+100 a 15+000","2928":"km 12+100 a 15+000","2922":"km 14+150 a 14+250","2938":"km 13+330","2919":"km 13+500","2932":"km 14+250"};
 const CLP_BATCH3_LOGOS={'CLP-016':'EMPA','CLP-018':'ÁPIA','CLP-024':'ÁPIA','CLP-033':'SOMAFEL'};
